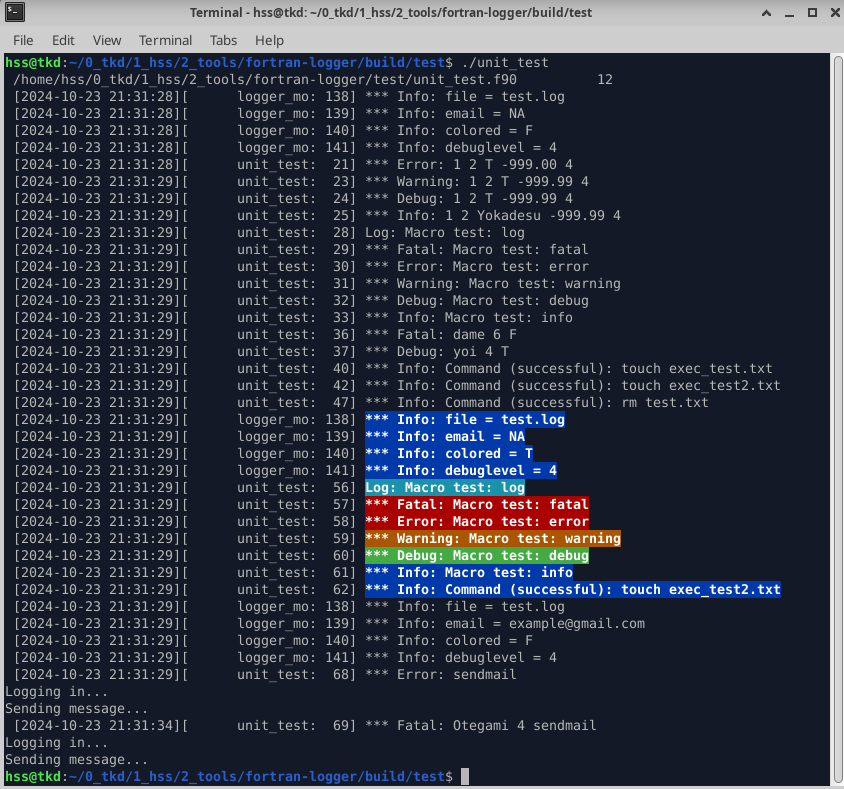
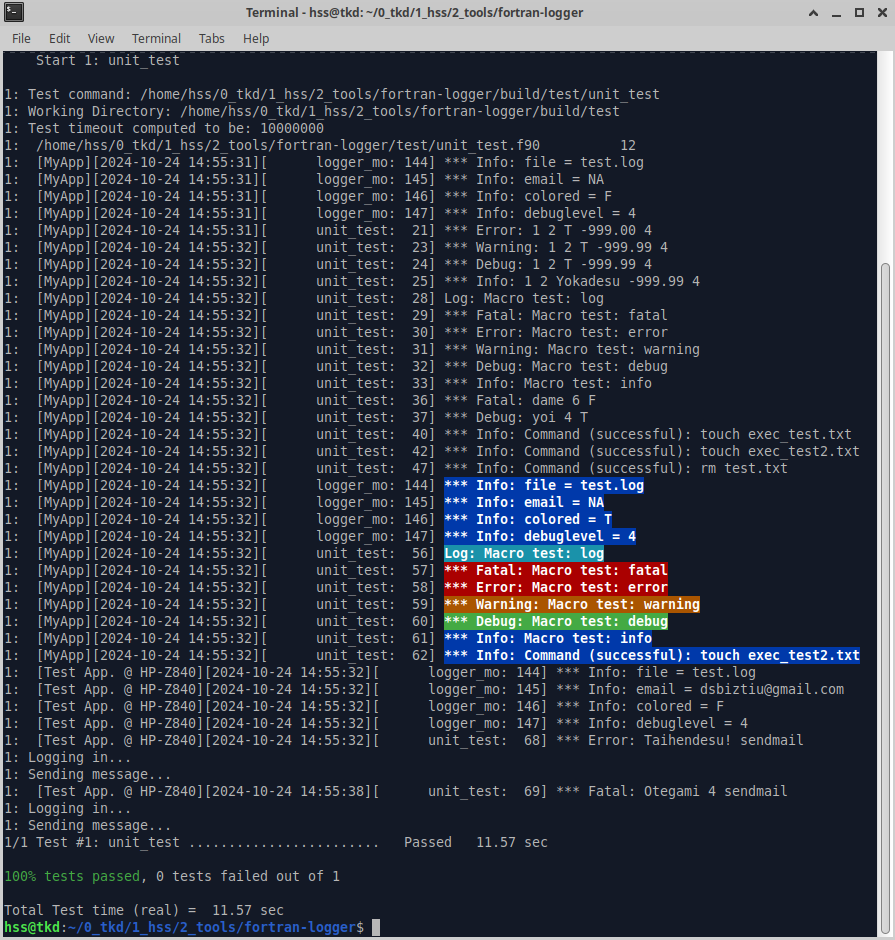
Update readme

diff --git a/README.md b/README.md
@@ -1,9 +1,77 @@
 # fortran-logger
 
-A Simple Logger for Fortran.
+A Simple Logger for Fortran
 
 - ANSI coloring on terminal {Fatal, Error, Warn, Debug, Info}
 - Multi-threaded
 - Email capability with "sendmail" argument
+
+## Usage
+
+
+- Initialization
+
+```
+  call logger%init ( file = 'test.log' )
+```
+
+- Logging with a message
+
+```
+  __ERROR__( 'Sorry to bother you!' )
+
+```
+
+- Logging with multiple arguments ( with paste function )
+
+```
+  i = 1
+  __FATAL__( paste( 'Not good!', i+2, .false., 0.2 ) )
+
+```
+
+- Execute command line with logging
+
+```
+  __EXEC__( 'touch test.txt' )
+```
+
+- Open file with logging
+
+```
+  call logger%open ( __FILE__, __LINE__, newunit = u, file = 'test.txt', status = 'old' )
+```
+
+- Email
+
+With a "sendmail" argument, log email will be sent.\
+Please replace MUA (I use neomutt) name to yours in logger_mo.f90.
+
+```
+  call logger%init ( file = 'test.log', app = 'Test App. @ HP-Z840', debuglevel = 4, email = 'dsbiztiu@gmail.com' )
+  __ERROR__( paste( 'Taihendesu!', 'sendmail' ) )
+```
+
+- logger derived type
+
+```
+  type logger_ty
+    character(255) :: file       = 'NA'    ! Log file path
+    character(255) :: app        = 'MyApp' ! Application name
+    character(255) :: email      = 'NA'    ! Email address
+    character(255) :: args       = 'NA'    ! Debug arguments
+    logical        :: colored    = .false. ! Use ANSI terminal colors
+    integer        :: debuglevel = 1       ! Debug level (0: No logging)
+  contains
+    procedure :: init  => init_logger
+    procedure :: write => write_log
+    procedure :: open  => open_file_with_logger
+    procedure :: exec  => execute_with_logger
+  end type
+```
+
+- Output Image
+
+[test/unit_test.f90]
 
 ![unit_test](./unit_test.png)
